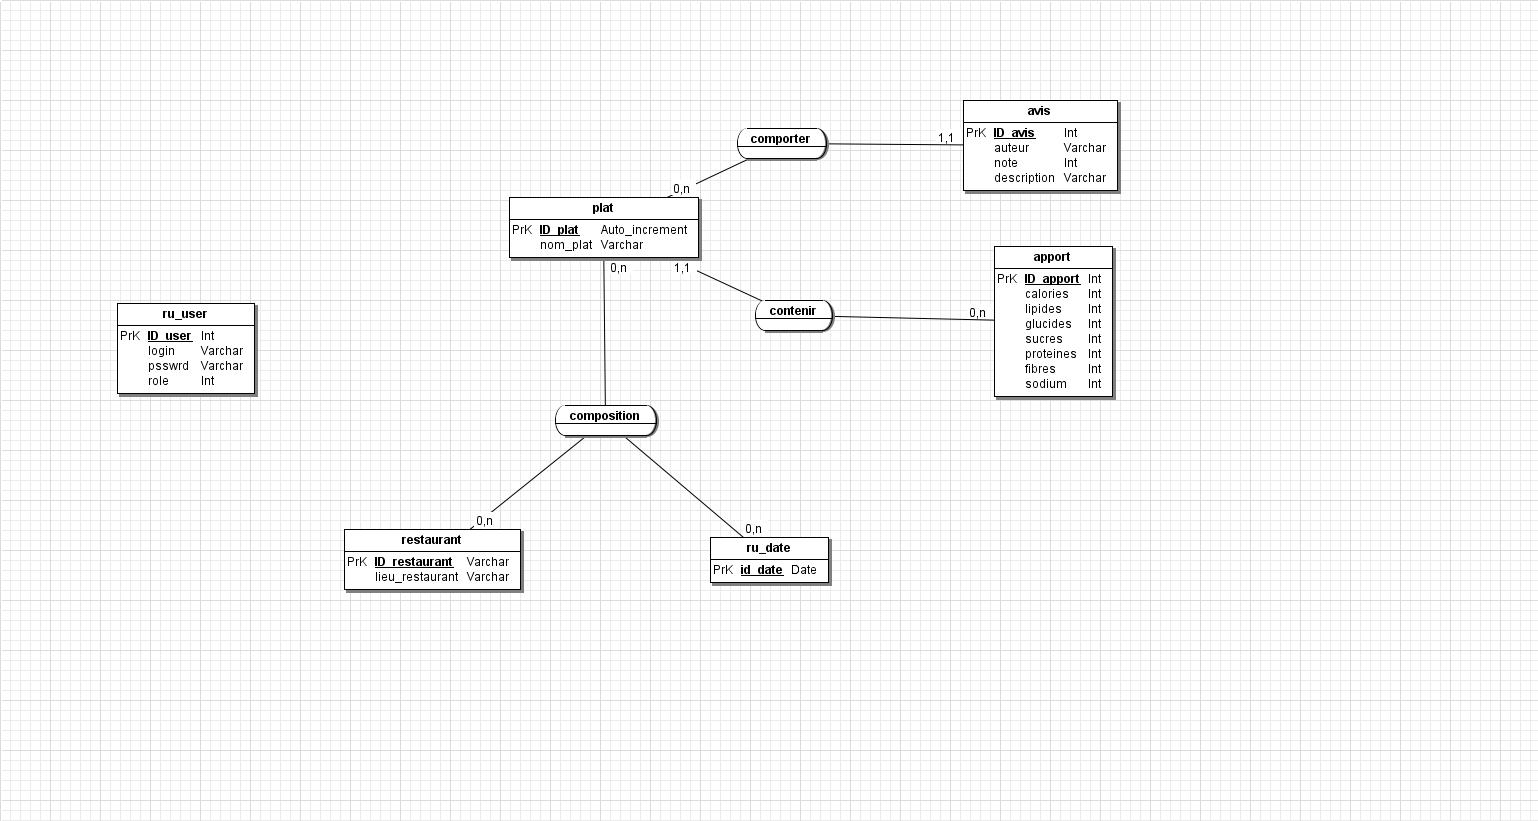
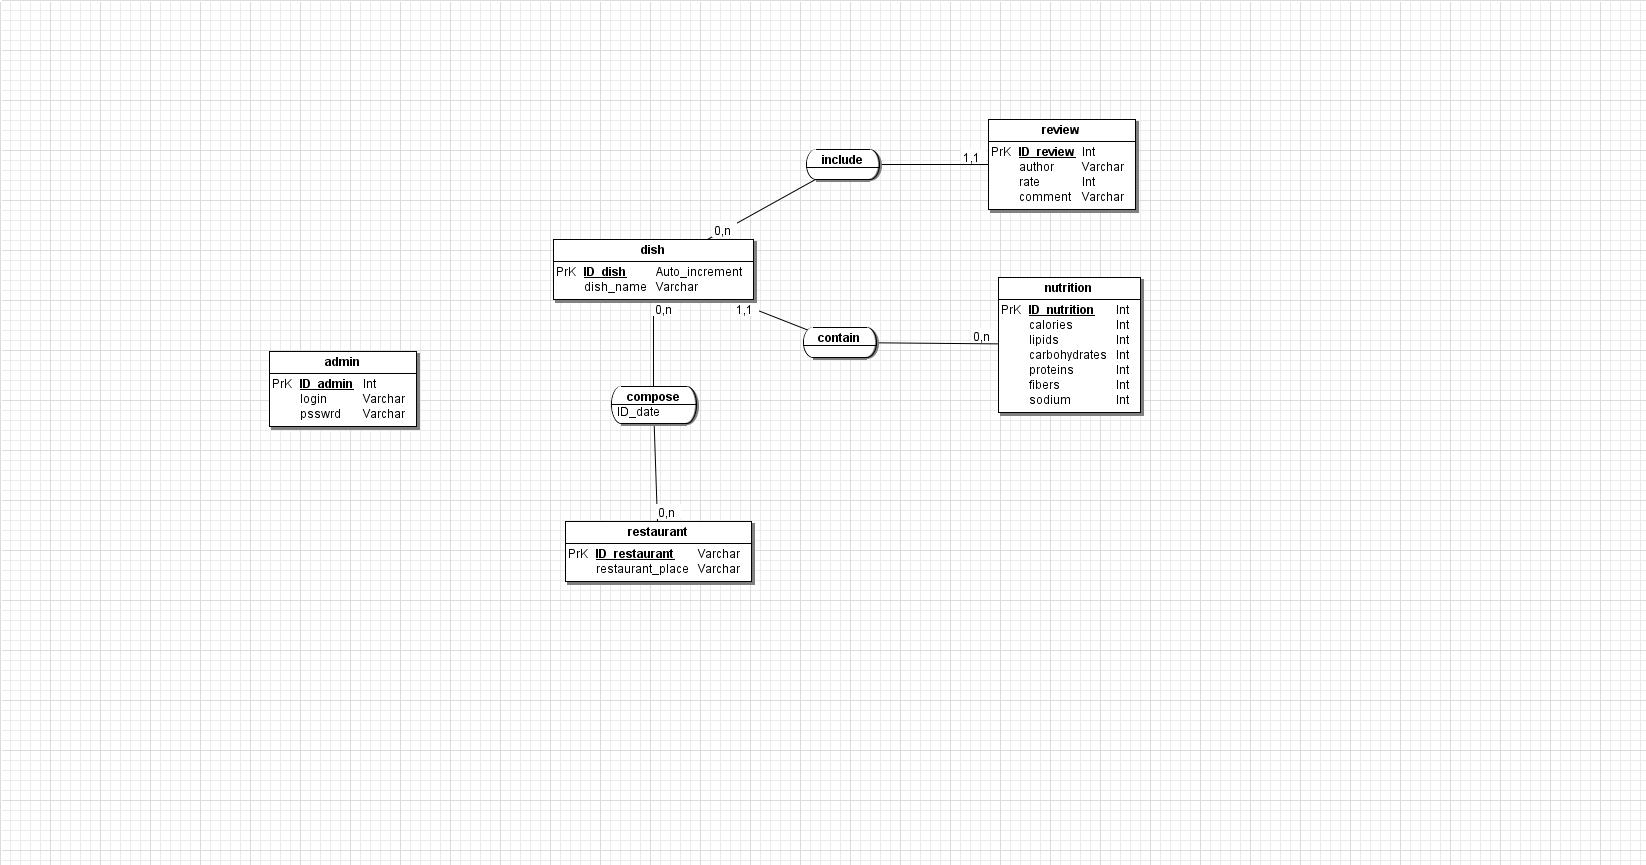
english

diff --git a/html/style.css b/html/style.css
@@ -25,7 +25,7 @@ body{
 		text-align: center;
 }
 
-.TitreAccueil{
+.HomeTitle{
 	display: block;
 	width: 100%;
 	text-align: center;

diff --git a/html/model/m_dish.php b/html/model/m_dish.php
@@ -5,25 +5,25 @@
    * Hérite de la classe Model
    * @author AlexAufauvre
    */
-  class PlatModel extends Model {
+  class DishModel extends Model {
     /**
      * @var $pk_key clé primaire de la table
      */
-    protected $pk_key = 'ID_plat';
+    protected $pk_key = 'ID_dish';
     /**
      * @var $table table de la base de données utilisée par la classe
      */
-    protected $table = 'plat';
+    protected $table = 'dish';
 
     /**
      * Sélection d'un plat par son nom
      * @param string $label nom du plat
      * @return array tableau associatif
      */
-    public function getByNomPlat($nom) {
+    public function getByDishName($name) {
       try {
-        $sql = "SELECT * FROM ".$this->table." WHERE nom_plat = :nom";
-        $req = $this->query($sql,array(":nom"=> $nom));
+        $sql = "SELECT * FROM ".$this->table." WHERE dish_name = :name";
+        $req = $this->query($sql,array(":name"=> $name));
         $res = $req->fetch(PDO::FETCH_ASSOC);
         return $res;
       }
@@ -34,12 +34,12 @@
     }
 
     /**
-     * Sélection d'un plat par son nom
+     * Sélection de la liste des noms des plats
      * @return array tableau associatif
      */
-    public function getListeNomPlats() {
+    public function getListDishName() {
       try {
-        $sql = 'SELECT nom_plat FROM '.$this->table;
+        $sql = 'SELECT dish_name FROM '.$this->table;
         $req = $this->query($sql);
         $res = $req->fetchAll(PDO::FETCH_ASSOC);
         return $res;
@@ -51,12 +51,12 @@
     }
 
     /**
-     * Sélection d'un plat par son nom
+     * Sélection de la liste des id des plats
      * @return array tableau associatif
      */
-    public function getListeIdPlats() {
+    public function getListIdDish() {
       try {
-        $sql = 'SELECT ID_plat FROM '.$this->table;
+        $sql = 'SELECT ID_dish FROM '.$this->table;
         $req = $this->query($sql);
         $res = $req->fetchAll(PDO::FETCH_ASSOC);
         return $res;

diff --git a/html/model/m_compose.php b/html/model/m_compose.php
@@ -1,23 +1,27 @@
 <?php
   require_once "m_model.php";
   /**
-   * Classe permettant l'interaction avec la table "restaurant"
+   * Classe permettant l'interaction avec la table "composition"
    * Hérite de la classe Model
    * @author AlexAufauvre
    */
-  class CompositionModel extends Model {
+  class ComposeModel extends Model {
     /**
      * @var $pk_key clé primaire de la table
      */
-    protected $pk_key = 'date_composition';
+    protected $pk_key = 'ID_date';
     /**
      * @var $resto clé ID_restaurant de la table
      */
-    protected $resto = 'ID_restaurant';
+    protected $restaurant = 'ID_restaurant';
+    /**
+     * @var $resto clé ID_restaurant de la table
+     */
+    protected $dish = 'ID_dish';
     /**
      * @var $table table de la base de données utilisée par la classe
      */
-    protected $table = 'composition';
+    protected $table = 'compose';
 
     /**
      * Fonction pour la récupération d'un enregistrement en particulier
@@ -26,7 +30,7 @@
      */
     public function getMenu($id) {
       try{
-        $sql = 'SELECT ID_plat FROM '.$this->table.' WHERE '.$this->pk_key.' =' .date('Y-m-d'). ' AND ' .$this->resto.' = :id';
+        $sql = 'SELECT ID_dish FROM '.$this->table.' WHERE '.$this->pk_key.' =' .date('Y-m-d'). ' AND ' .$this->restaurant.' = :id';
         $req = $this->query($sql,array(":id"=>$id));
         $res = $req->fetch(PDO::FETCH_ASSOC);
         return $res;

diff --git a/html/view/v_index.php b/html/view/v_index.php
@@ -8,15 +8,15 @@
         <script src="https://ajax.googleapis.com/ajax/libs/jquery/3.2.1/jquery.min.js"></script>
         <script src="https://maxcdn.bootstrapcdn.com/bootstrap/3.3.7/js/bootstrap.min.js"></script>
         <link rel="stylesheet" type="text/css" href="html/style.css">
-        <?php require_once "html/model/m_composition.php";
-        require_once "html/model/m_plat.php";
+        <?php /*require_once "html/model/m_composition.php";
+        require_once "html/model/m_plat.php";*/
         ?>
 
     </head>
 
 
     <body>
-        <h1 class="TitreAccueil"><?php echo 'Menu du ' .date('d/m/Y'); ?></h1>
+        <h1 class="HomeTitle"><?php echo 'Menu du ' .date('d/m/Y'); ?></h1>
 
 
         <div id="container-fluid">
@@ -185,9 +185,9 @@
 </div>
 
 
-<p><button type="button" class="btn btn-default btn-block"><a href="html/view/v_menuSemaine.php">Menu de la semaine</a></button></p>
+<p><button type="button" class="btn btn-default btn-block"><a href="html/view/v_weekMenu.php">Menu de la semaine</a></button></p>
 
-    <p><button type="button" class="btn btn-warning"><a href="html/view/v_connexion.php">Connexion Admin</a></button>
+    <p><button type="button" class="btn btn-warning"><a href="html/view/v_connection.php">Connexion Admin</a></button>
 </p>
           <?php
 /*$restaurant = "Pastaria";

diff --git a/html/model/m_admin.php b/html/model/m_admin.php
@@ -1,0 +1,40 @@
+<?php
+  require_once "Model.php";
+  /**
+   * Classe permettant l'interaction avec la table "admin"
+   * Hérite de la classe Model
+   * @author AlexAufauvre
+   */
+  class AdminModel extends Model {
+    /**
+     * @var $pk_key clé primaire de la table
+     */
+    protected $pk_key = 'ID_admin';
+    /**
+     * @var $table table de la base de données utilisée par la classe
+     */
+    protected $table = 'admin';
+
+
+    /**
+     * Sélection d'un admin par son login
+     * @param string $login le login de l'admin
+     * @return array tableau associatif contenant les informations du compte
+     */
+    public function getByLogin($login) {
+      try{
+        $sql = 'SELECT * FROM '.$this->table.' WHERE login = :login';
+        $req = $this->query($sql,array(":login"=>$login));
+        $res = $req->fetch(PDO::FETCH_ASSOC);
+        return $res;
+      }
+      catch(PDOException $e){
+        exit('<p>Erreur lors de la selection de l\'objet dans la table : '.$this->table
+             .'<br/>'.$e->getMessage().'</p>');
+           }
+         }
+
+
+    }
+
+?>

diff --git a/html/model/m_dbconnection.php b/html/model/m_dbconnection.php
@@ -2,15 +2,12 @@
 /**
  * Classe de connexion à une base de données
  * S'inspire du pattern singleton pour n'ouvrir qu'une seule connexion
- * @author JohanBrunet
+ * @author AlexAufauvre
  */
-class DatabaseConnection {
-   // // Paramètres pour l'accès à la base
-   // static private $host = "db648137671.db.1and1.com";
-   // static private $database   = "db648137671";
-   // static private $user = "dbo648137671";
-   // static private $password = "piscineRiasec";
-   /**
+
+class DBConnectionModel {
+
+    /**
     * Paramètres pour l'accès à la base de données
     * @var $host hôte de la base de données
     */

diff --git a/html/model/m_model.php b/html/model/m_model.php
@@ -1,5 +1,5 @@
 <?php
-require_once "DatabaseConnexion.php";
+require_once "m_dbconnection.php";
 /**
  * Classe abstraite permettant de factoriser certaines fonctions
  * communes à toutes les classes de modèles
@@ -25,7 +25,7 @@ abstract class Model {
      * @return PDOStatement le résultat de la requête SQL
      */
     protected function query($sql, $params = null) {
-      $this->database = DatabaseConnection::getInstance();
+      $this->database = DBConnectionModel::getInstance();
       if ($params == null) {
         $resultat = $this->database->query($sql);    // exécution directe
       }

diff --git a/html/view/v_connection.php b/html/view/v_connection.php
@@ -11,7 +11,7 @@
 
     </head>
     <body>
-        <h1 class="TitreAccueil">Connexion admin</h1>
+        <h1 class="HomeTitle">Connexion admin</h1>
 
         <p>
 
@@ -38,7 +38,7 @@
   <div class="form-group">
     <div class="col-sm-offset-2 col-sm-10">
       <!-- <button type="submit" class="btn btn-default">Submit</button> // Vrai submit -->
-      <button type="button" class="btn btn-warning"><a href="../view/v_ajoutMenu.php">Submit</a></button>
+      <button type="button" class="btn btn-warning"><a href="../view/v_addMenu.php">Submit</a></button>
     </div>
   </div>
 </form>

diff --git a/html/model/m_nutrition.php b/html/model/m_nutrition.php
@@ -1,0 +1,20 @@
+<?php
+  require_once "m_model.php";
+  /**
+   * Classe permettant l'interaction avec la table "nutrition"
+   * Hérite de la classe Model
+   * @author AlexAufauvre
+   */
+  class NutritionModel extends Model {
+    /**
+     * @var $pk_key clé primaire de la table
+     */
+    protected $pk_key = 'ID_nutrition';
+    /**
+     * @var $table table de la base de données utilisée par la classe
+     */
+    protected $table = 'nutrition';
+
+
+  }
+?>

diff --git a/html/model/m_restaurant.php b/html/model/m_restaurant.php
@@ -19,7 +19,7 @@
      * Fonction pour récupérer tous les noms de restaurants
      * @return array tableau associatif
      */
-    public function getListeRestaurants() {
+    public function getListRestaurants() {
       try{
         $sql = 'SELECT ID_restaurant FROM '.$this->table;
         $req = $this->query($sql);

diff --git a/html/view/v_accueil.php b/html/view/v_accueil.php
@@ -15,7 +15,7 @@
 
 
     <body>
-        <h1 class="TitreAccueil"><?php echo 'Menu du ' .date('d/m/Y'); ?></h1>
+        <h1 class="HomeTitle"><?php echo 'Menu du ' .date('d/m/Y'); ?></h1>
 
         <!-- Modal Trigger -->
 <a class="waves-effect waves-light btn" href="#modal1">Modal</a>

diff --git a/html/view/v_weekMenu.php b/html/view/v_weekMenu.php
@@ -11,7 +11,7 @@
 
     </head>
     <body>
-        <h1 class="TitreAccueil"><?php echo 'Menu du ' .date('d/m/Y'); ?></h1>
+        <h1 class="HomeTitle"><?php echo 'Menu du ' .date('d/m/Y'); ?></h1>
 
         <p>
 
